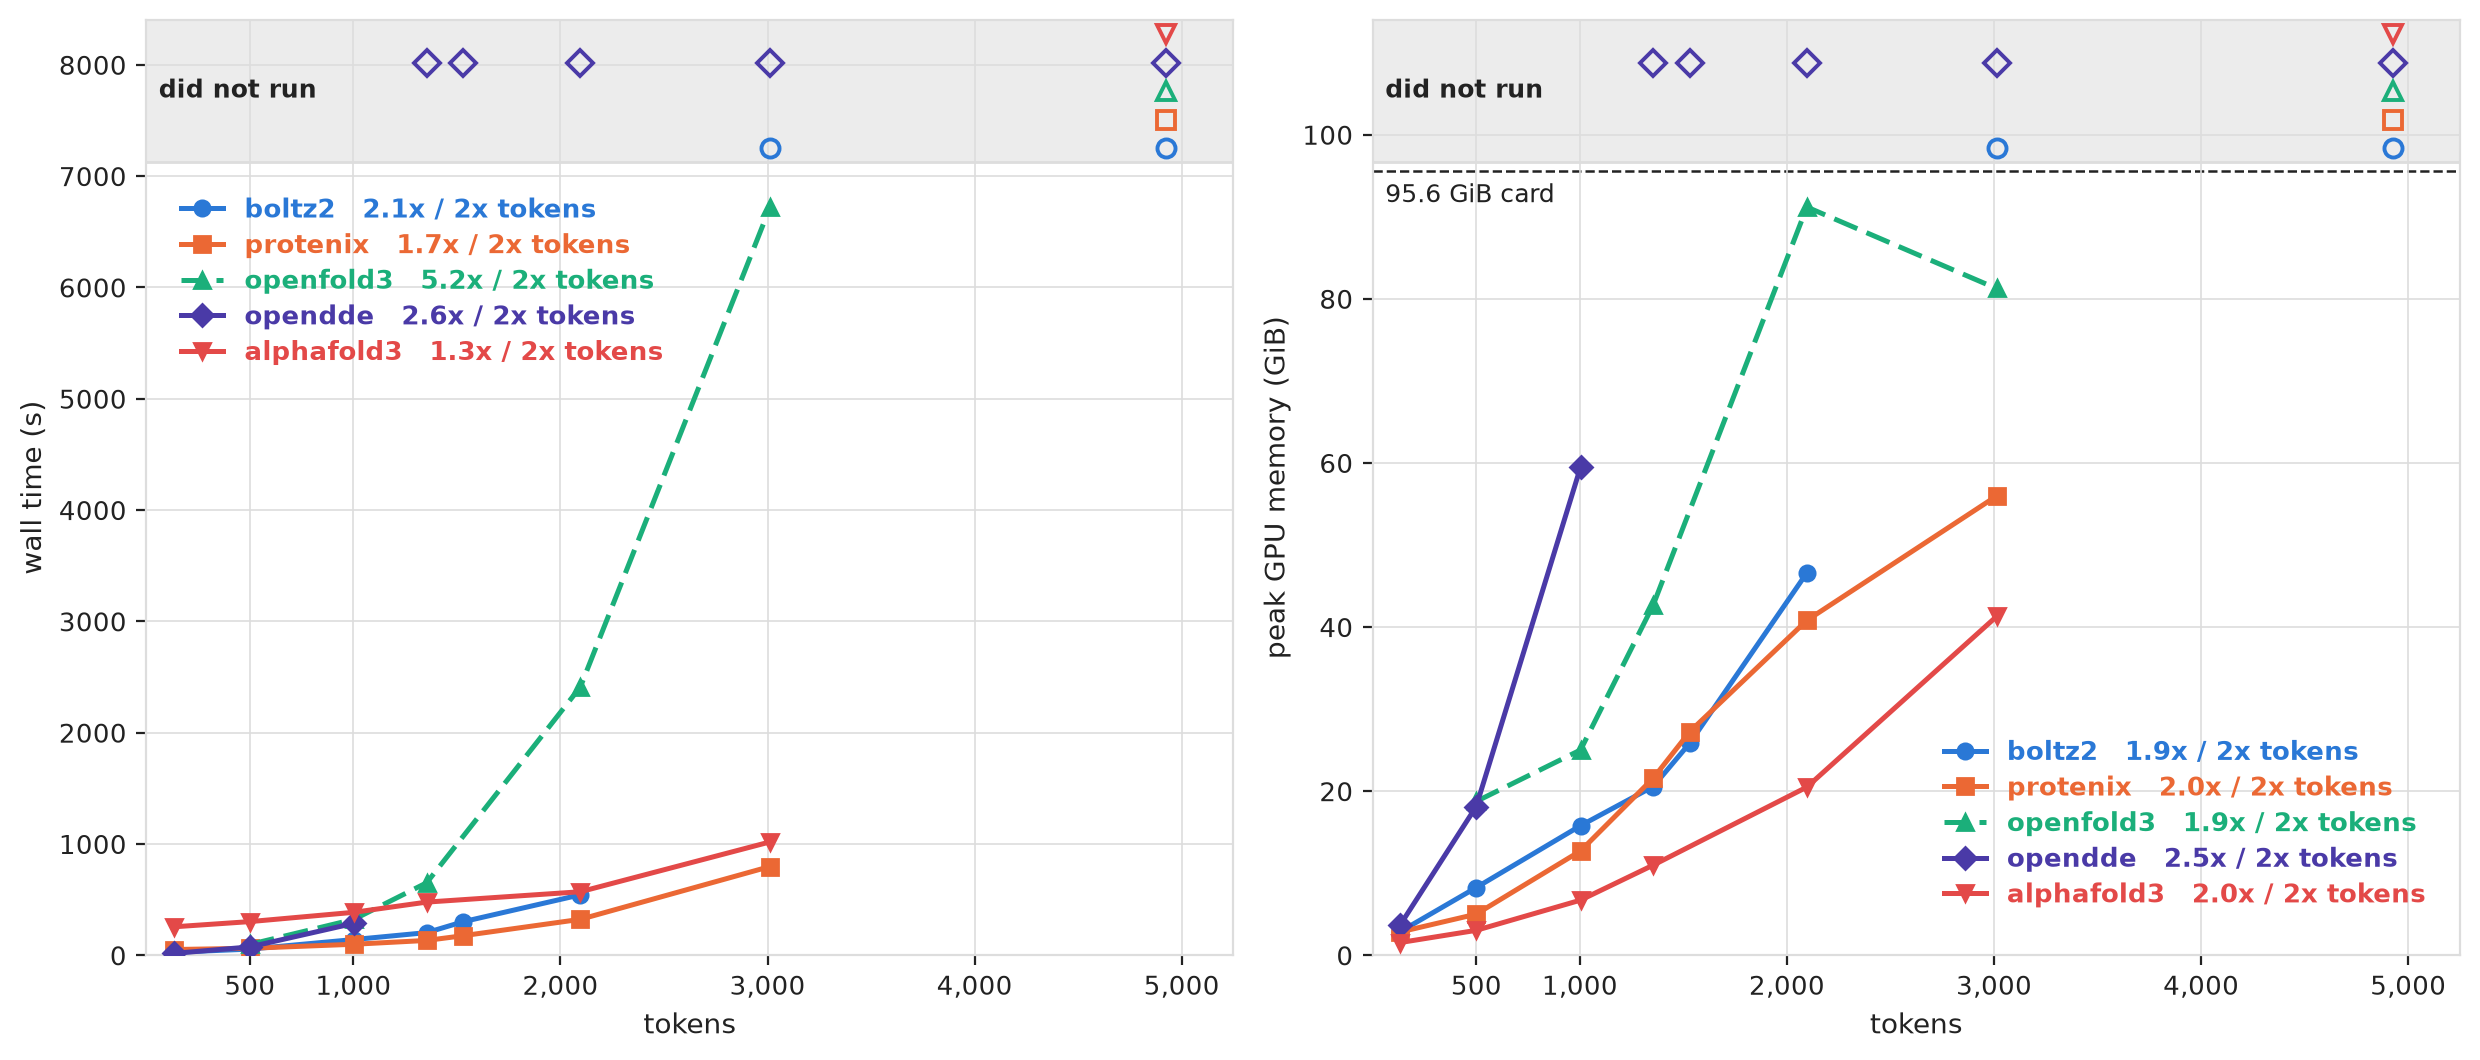
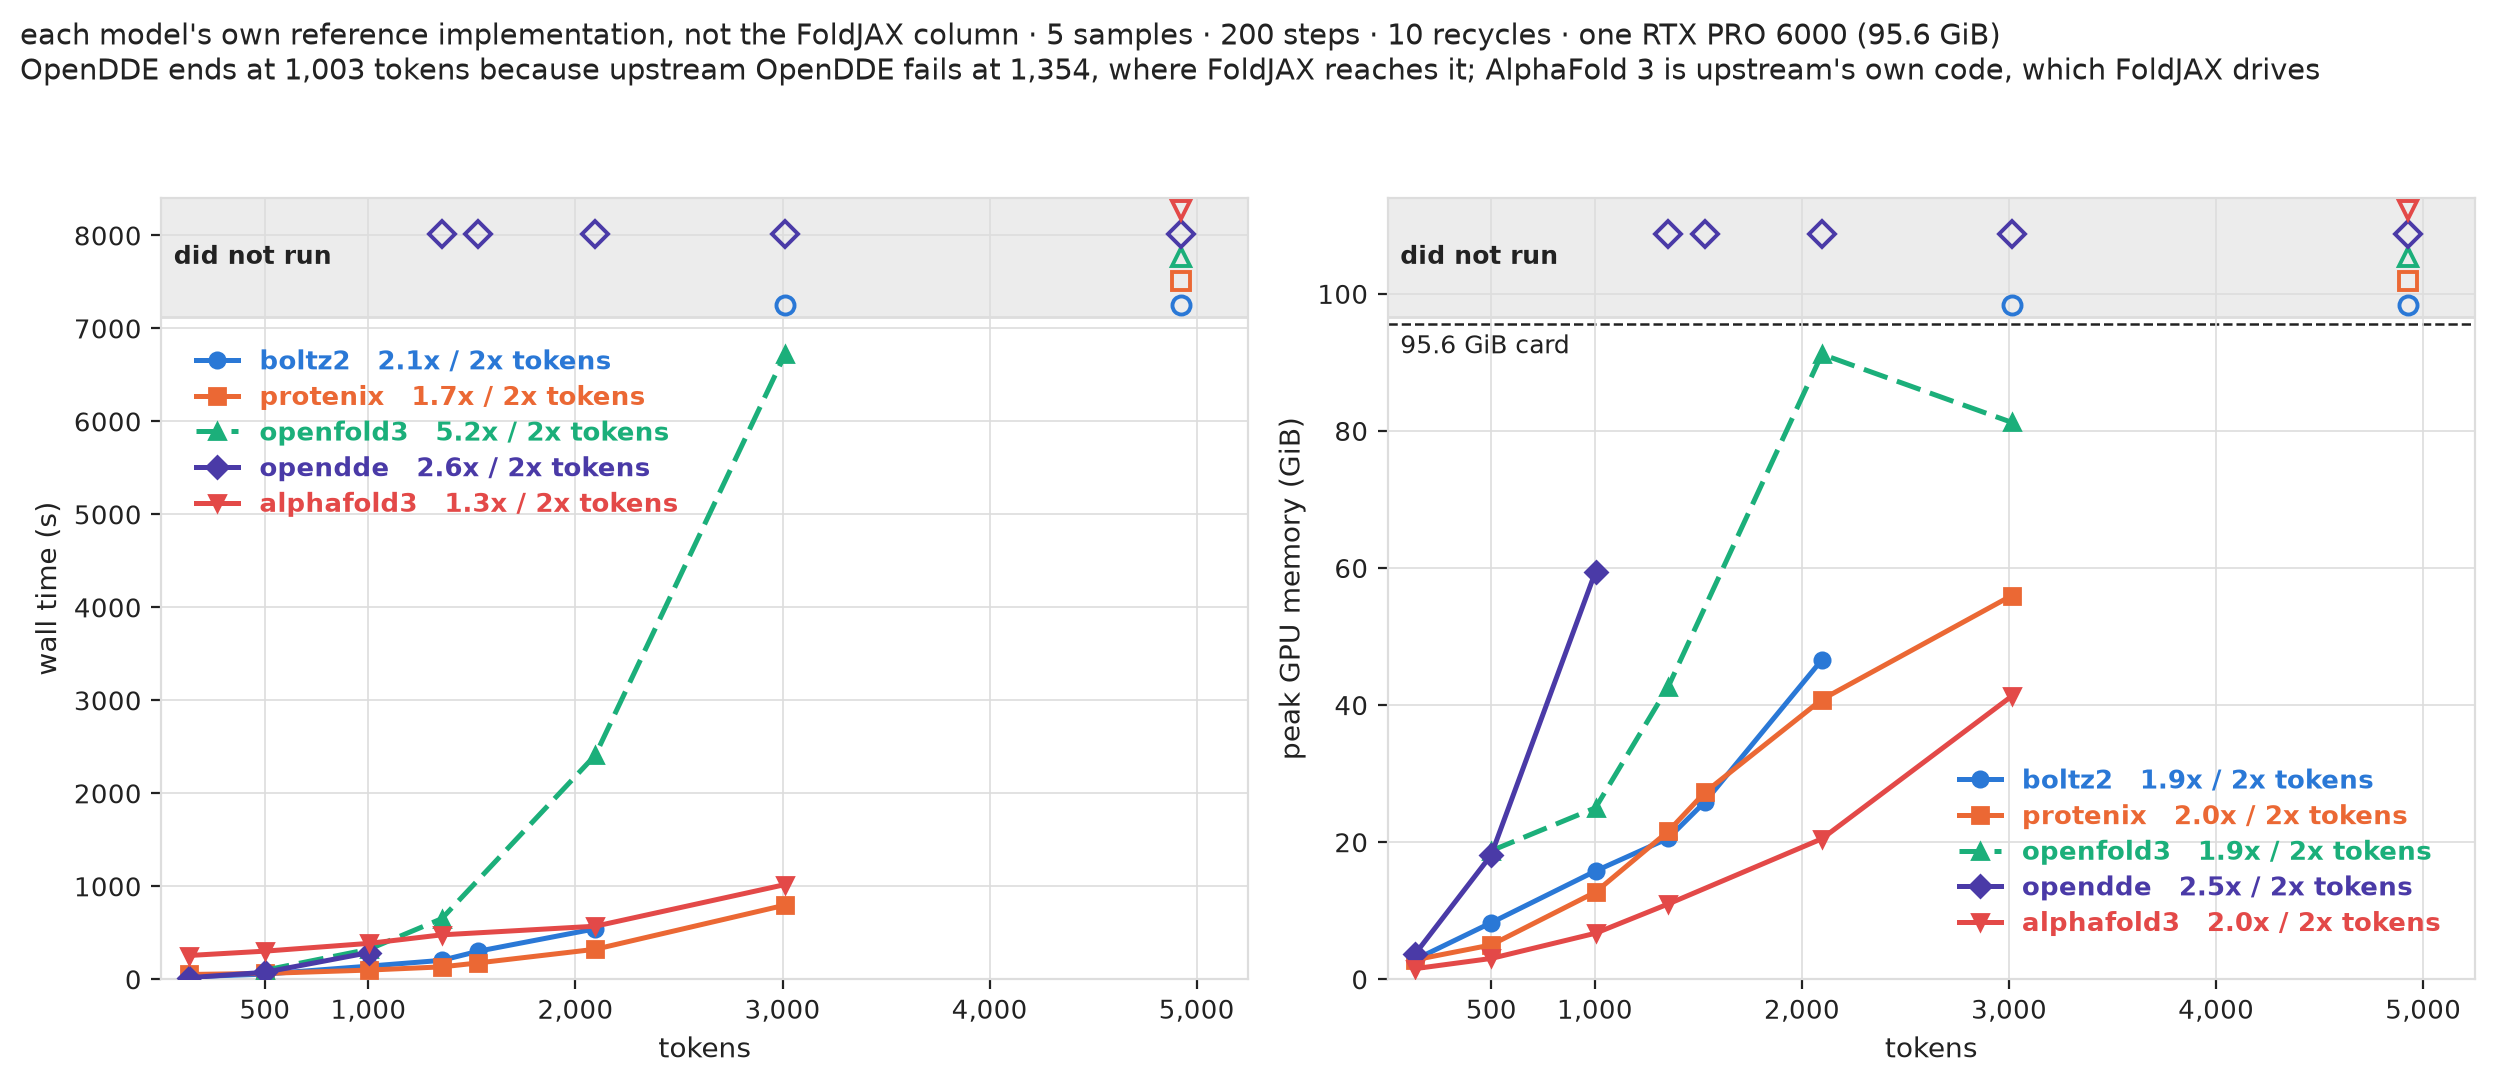
fix: name the column the upstream scaling figure plots
`upstream-scaling-*.png` draws each model's own reference implementation, and
said so nowhere on the canvas. Its legend spells `opendde` in the same word the
FoldJAX-vs-upstream table uses, so OpenDDE's series ending at 1,003 tokens reads
as a FoldJAX limit. It is not: upstream OpenDDE fails at 1,354 and FoldJAX
reaches it at 529 s and 77.8 GiB, which is in the table and in the faceted
figure's OpenDDE panel. The figure header now says which column it is and
carries that one endpoint, because that is the point a reader gets wrong.

The omission was deliberate -- the docstring argued the figure "is meant to be
read beside the text that explains it, not to carry that text". The text does
explain it, two paragraphs down. But an image travels without its heading, and
a series label that collides with another figure's meaning is labelling, not
explanation. The docstring now records that.

The data was not the problem and has not changed. Re-checked after the edit:
all 50 comparable rows still match the Markdown table, nothing is plotted where
the table says failed, and `scaling-*.png` is untouched.

diff --git a/docs/make_scaling_figure.py b/docs/make_scaling_figure.py
@@ -407,8 +407,18 @@ def render(grouped: dict, out: Path, *, theme: str) -> Path:
 def render_upstream(grouped: dict, out: Path, *, theme: str) -> Path:
     """The five reference implementations against each other, on one axes.
 
-    No prose on the canvas: the figure is meant to be read beside the text that
-    explains it, not to carry that text. Names go in a legend, each with what
+    Each series is the model's own reference implementation -- ``upstream`` for
+    four of them, and for AlphaFold 3 the ``foldjax`` rows, because FoldJAX
+    drives the official installation rather than reimplementing it.
+
+    That is not obvious from a curve, and the panel used to carry no prose at
+    all on the grounds that it would be read beside the text explaining it. It
+    is not: the image travels on its own, the legend says ``opendde`` in the
+    same words the FoldJAX-vs-upstream table uses, and OpenDDE's series ending
+    at 1,003 tokens then reads as a FoldJAX limit. It is upstream OpenDDE's --
+    FoldJAX reaches 1,354, which is in the table and in the faceted figure. So
+    the header names the column. That is labelling, not the explaining text,
+    which still lives beside it. Names go in a legend, each with what
     doubling the token count multiplies that panel's cost by.
 
     OpenFold3's memory falling from 2,096 to 3,012 tokens is not a bad point.
@@ -565,7 +575,21 @@ def render_upstream(grouped: dict, out: Path, *, theme: str) -> Path:
         for text in legend.get_texts():
             text.set_fontweight("bold")
 
-    figure.tight_layout()
+    figure.suptitle(
+        "each model's own reference implementation, not the FoldJAX column · "
+        "5 samples · 200 steps · 10 recycles · "
+        f"one RTX PRO 6000 ({CARD_GIB:.1f} GiB)\n"
+        "OpenDDE ends at 1,003 tokens because upstream OpenDDE fails at 1,354, "
+        "where FoldJAX reaches it; AlphaFold 3 is upstream's own code, which "
+        "FoldJAX drives",
+        color=fg,
+        fontsize=10.5,
+        x=0.006,
+        ha="left",
+        va="top",
+        y=0.995,
+    )
+    figure.tight_layout(rect=(0, 0, 1, 0.95))
     out.parent.mkdir(parents=True, exist_ok=True)
     figure.savefig(out, facecolor=bg, bbox_inches="tight")
     plt.close(figure)
